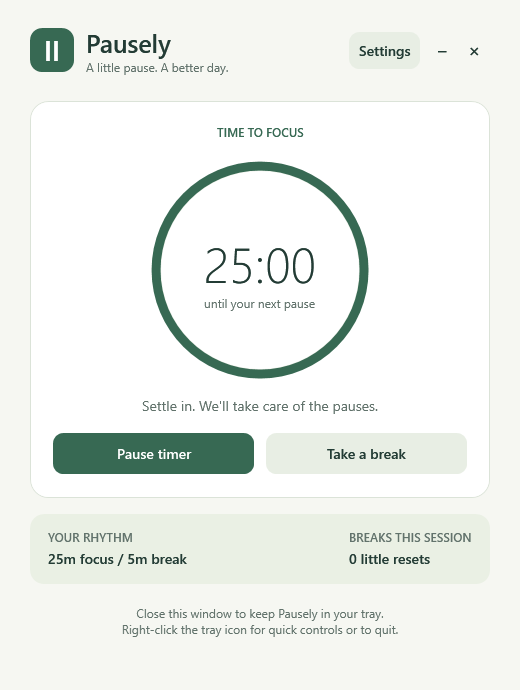
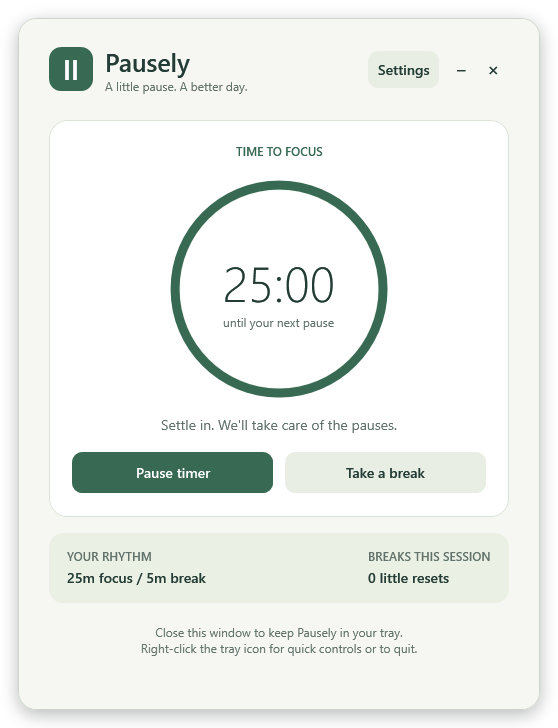
Refinements
- Soft shadows around the windows.
- Custom scrollbar in settings.
- Save Settings enables only when preferences differ from saved values.
- Reset to Defaults asks “Are you sure?” before changing the form.
- Workflow upgraded to Node.js 24 actions

diff --git a/src/Pausely/App.xaml b/src/Pausely/App.xaml
@@ -15,9 +15,35 @@
     </Style>
     <Style x:Key="FramelessWindow" TargetType="Window" BasedOn="{StaticResource {x:Type Window}}">
       <Setter Property="WindowStyle" Value="None" />
+      <Setter Property="AllowsTransparency" Value="True" />
+      <Setter Property="Background" Value="Transparent" />
+      <Setter Property="Template">
+        <Setter.Value>
+          <ControlTemplate TargetType="Window">
+            <Grid>
+            <Grid x:Name="WindowSurface" Margin="18">
+              <!-- Shadow only the backdrop, so text stays crisp and timer updates stay cheap. -->
+              <Border x:Name="Shadow" Background="{StaticResource Canvas}" CornerRadius="18" IsHitTestVisible="False">
+                <Border.Effect><DropShadowEffect Color="#233C35" BlurRadius="26" ShadowDepth="5" Direction="270" Opacity="0.28" /></Border.Effect>
+              </Border>
+              <Border x:Name="Surface" Background="{StaticResource Canvas}" BorderBrush="#CBD6CA" BorderThickness="1" CornerRadius="18">
+                <AdornerDecorator><ContentPresenter /></AdornerDecorator>
+              </Border>
+            </Grid>
+            </Grid>
+            <ControlTemplate.Triggers>
+              <Trigger Property="WindowState" Value="Maximized">
+                <Setter TargetName="WindowSurface" Property="Margin" Value="0" />
+                <Setter TargetName="Surface" Property="CornerRadius" Value="0" />
+                <Setter TargetName="Shadow" Property="Visibility" Value="Collapsed" />
+              </Trigger>
+            </ControlTemplate.Triggers>
+          </ControlTemplate>
+        </Setter.Value>
+      </Setter>
       <Setter Property="WindowChrome.WindowChrome">
         <Setter.Value>
-          <WindowChrome CaptionHeight="80" ResizeBorderThickness="6" GlassFrameThickness="0" CornerRadius="16" UseAeroCaptionButtons="False" NonClientFrameEdges="None" />
+          <WindowChrome CaptionHeight="98" ResizeBorderThickness="22" GlassFrameThickness="0" CornerRadius="0" UseAeroCaptionButtons="False" NonClientFrameEdges="None" />
         </Setter.Value>
       </Setter>
     </Style>
@@ -63,6 +89,37 @@
       <Setter Property="BorderThickness" Value="1" /><Setter Property="VerticalContentAlignment" Value="Center" />
     </Style>
     <Style TargetType="CheckBox"><Setter Property="Margin" Value="0,7" /><Setter Property="VerticalContentAlignment" Value="Center" /></Style>
+    <Style x:Key="SettingsScrollThumb" TargetType="Thumb">
+      <Setter Property="MinHeight" Value="32" />
+      <Setter Property="Template"><Setter.Value>
+        <ControlTemplate TargetType="Thumb">
+          <Border x:Name="Handle" Background="#A3B7A3" CornerRadius="4" Margin="3,0" />
+          <ControlTemplate.Triggers>
+            <Trigger Property="IsMouseOver" Value="True"><Setter TargetName="Handle" Property="Background" Value="#6F9177" /></Trigger>
+            <Trigger Property="IsDragging" Value="True"><Setter TargetName="Handle" Property="Background" Value="{StaticResource Accent}" /></Trigger>
+          </ControlTemplate.Triggers>
+        </ControlTemplate>
+      </Setter.Value></Setter>
+    </Style>
+    <Style x:Key="ScrollPageButton" TargetType="RepeatButton">
+      <Setter Property="Focusable" Value="False" />
+      <Setter Property="Template"><Setter.Value><ControlTemplate TargetType="RepeatButton"><Border Background="Transparent" /></ControlTemplate></Setter.Value></Setter>
+    </Style>
+    <Style x:Key="SettingsScrollBar" TargetType="ScrollBar">
+      <Setter Property="Width" Value="12" /><Setter Property="MinWidth" Value="12" />
+      <Setter Property="Background" Value="#E8EEE4" /><Setter Property="Stylus.IsFlicksEnabled" Value="False" />
+      <Setter Property="Template"><Setter.Value>
+        <ControlTemplate TargetType="ScrollBar">
+          <Border Background="{TemplateBinding Background}" CornerRadius="6">
+            <Track x:Name="PART_Track" Orientation="Vertical" IsDirectionReversed="True" Minimum="{TemplateBinding Minimum}" Maximum="{TemplateBinding Maximum}" Value="{TemplateBinding Value}" ViewportSize="{TemplateBinding ViewportSize}">
+              <Track.DecreaseRepeatButton><RepeatButton Command="ScrollBar.PageUpCommand" Style="{StaticResource ScrollPageButton}" /></Track.DecreaseRepeatButton>
+              <Track.Thumb><Thumb Style="{StaticResource SettingsScrollThumb}" /></Track.Thumb>
+              <Track.IncreaseRepeatButton><RepeatButton Command="ScrollBar.PageDownCommand" Style="{StaticResource ScrollPageButton}" /></Track.IncreaseRepeatButton>
+            </Track>
+          </Border>
+        </ControlTemplate>
+      </Setter.Value></Setter>
+    </Style>
     <Style x:Key="Card" TargetType="Border">
       <Setter Property="Background" Value="White" /><Setter Property="CornerRadius" Value="18" />
       <Setter Property="Padding" Value="22" /><Setter Property="BorderBrush" Value="{StaticResource Line}" /><Setter Property="BorderThickness" Value="1" />

diff --git a/src/Pausely/Views/SettingsWindow.xaml b/src/Pausely/Views/SettingsWindow.xaml
@@ -1,4 +1,4 @@
-<Window Style="{StaticResource FramelessWindow}" x:Class="Pausely.Views.SettingsWindow" xmlns="http://schemas.microsoft.com/winfx/2006/xaml/presentation" xmlns:x="http://schemas.microsoft.com/winfx/2006/xaml" Title="Pausely · Settings" Width="530" Height="780" MinWidth="460" MinHeight="520" WindowStartupLocation="CenterOwner">
+<Window Style="{StaticResource FramelessWindow}" x:Class="Pausely.Views.SettingsWindow" xmlns="http://schemas.microsoft.com/winfx/2006/xaml/presentation" xmlns:x="http://schemas.microsoft.com/winfx/2006/xaml" Title="Pausely · Settings" Width="568" Height="818" MinWidth="528" MinHeight="558" WindowStartupLocation="CenterOwner">
   <DockPanel Margin="28">
     <Grid DockPanel.Dock="Top" Margin="0,0,0,18">
       <Grid.ColumnDefinitions><ColumnDefinition/><ColumnDefinition Width="Auto"/></Grid.ColumnDefinitions>
@@ -7,10 +7,11 @@
     </Grid>
     <StackPanel DockPanel.Dock="Bottom" Margin="0,16,0,0">
       <TextBlock x:Name="ValidationText" Foreground="#A34332" Margin="0,0,0,10" AutomationProperties.LiveSetting="Polite" />
-      <Grid><Grid.ColumnDefinitions><ColumnDefinition/><ColumnDefinition Width="Auto"/><ColumnDefinition Width="12"/><ColumnDefinition Width="Auto"/></Grid.ColumnDefinitions><Button Content="Defaults" Click="Defaults_Click" HorizontalAlignment="Left"/><Button Grid.Column="1" Content="Cancel" IsCancel="True" Click="Cancel_Click"/><Button Grid.Column="3" Content="Save settings" IsDefault="True" Style="{StaticResource Primary}" Click="Save_Click"/></Grid>
+      <Grid><Grid.ColumnDefinitions><ColumnDefinition/><ColumnDefinition Width="Auto"/><ColumnDefinition Width="8"/><ColumnDefinition Width="Auto"/></Grid.ColumnDefinitions><Button x:Name="DefaultsButton" Content="Reset to Defaults" Click="Defaults_Click" Padding="12,11" HorizontalAlignment="Left"/><Button Grid.Column="1" Content="Cancel" IsCancel="True" Click="Cancel_Click" Padding="12,11"/><Button x:Name="SaveButton" Grid.Column="3" Content="Save Settings" IsEnabled="False" IsDefault="True" Style="{StaticResource Primary}" Click="Save_Click" Padding="12,11"/></Grid>
     </StackPanel>
-    <ScrollViewer VerticalScrollBarVisibility="Hidden" HorizontalScrollBarVisibility="Disabled" PanningMode="VerticalOnly">
-      <StackPanel>
+    <ScrollViewer x:Name="SettingsScroller" VerticalScrollBarVisibility="Auto" HorizontalScrollBarVisibility="Disabled" PanningMode="VerticalOnly">
+      <ScrollViewer.Resources><Style TargetType="ScrollBar" BasedOn="{StaticResource SettingsScrollBar}" /></ScrollViewer.Resources>
+      <StackPanel Margin="0,0,12,0">
         <Border Style="{StaticResource Card}"><StackPanel>
           <TextBlock Text="YOUR TIMING" Foreground="{StaticResource Accent}" FontSize="12" FontWeight="SemiBold" Margin="0,0,0,14"/>
           <Grid><Grid.ColumnDefinitions><ColumnDefinition/><ColumnDefinition Width="100"/></Grid.ColumnDefinitions><Grid.RowDefinitions><RowDefinition Height="Auto"/><RowDefinition Height="Auto"/><RowDefinition Height="Auto"/><RowDefinition Height="Auto"/></Grid.RowDefinitions>

diff --git a/src/Pausely/Views/ReminderWindow.xaml b/src/Pausely/Views/ReminderWindow.xaml
@@ -1,9 +1,12 @@
-<Window Style="{StaticResource {x:Type Window}}" x:Class="Pausely.Views.ReminderWindow" xmlns="http://schemas.microsoft.com/winfx/2006/xaml/presentation" xmlns:x="http://schemas.microsoft.com/winfx/2006/xaml" Title="Pausely · A little pause" Width="400" SizeToContent="Height" WindowStyle="None" ResizeMode="NoResize" AllowsTransparency="True" Background="Transparent" Topmost="True" ShowInTaskbar="False" ShowActivated="False">
-  <Border Background="{StaticResource Canvas}" BorderBrush="{StaticResource Line}" BorderThickness="1" CornerRadius="18" Padding="23" Margin="8">
+<Window Style="{StaticResource {x:Type Window}}" x:Class="Pausely.Views.ReminderWindow" xmlns="http://schemas.microsoft.com/winfx/2006/xaml/presentation" xmlns:x="http://schemas.microsoft.com/winfx/2006/xaml" Title="Pausely · A little pause" Width="420" SizeToContent="Height" WindowStyle="None" ResizeMode="NoResize" AllowsTransparency="True" Background="Transparent" Topmost="True" ShowInTaskbar="False" ShowActivated="False">
+  <Grid Margin="18">
+    <Border Background="{StaticResource Canvas}" CornerRadius="18" IsHitTestVisible="False"><Border.Effect><DropShadowEffect Color="#233C35" BlurRadius="26" ShadowDepth="5" Direction="270" Opacity="0.28" /></Border.Effect></Border>
+  <Border Background="{StaticResource Canvas}" BorderBrush="#CBD6CA" BorderThickness="1" CornerRadius="18" Padding="23">
     <StackPanel>
       <Grid><TextBlock Text="Ⅱ  PAUSELY" FontSize="12" Foreground="{StaticResource Accent}" FontWeight="Bold" VerticalAlignment="Center"/><Button Content="×" Click="Dismiss_Click" HorizontalAlignment="Right" Padding="8,2" AutomationProperties.Name="Dismiss reminder"/></Grid>
       <TextBlock x:Name="Message" FontSize="23" FontWeight="SemiBold" Margin="0,12,0,7"/>
       <TextBlock Text="Find a stopping point. Your screen will lock soon." Foreground="{StaticResource Muted}" FontSize="13"/>
     </StackPanel>
   </Border>
+  </Grid>
 </Window>

diff --git a/src/Pausely/Views/BreakWindow.xaml b/src/Pausely/Views/BreakWindow.xaml
@@ -1,5 +1,5 @@
-<Window Style="{StaticResource FramelessWindow}" x:Class="Pausely.Views.BreakWindow" xmlns="http://schemas.microsoft.com/winfx/2006/xaml/presentation" xmlns:x="http://schemas.microsoft.com/winfx/2006/xaml" Title="Pausely · Break not over yet" Width="460" SizeToContent="Height" ResizeMode="NoResize" WindowStartupLocation="CenterScreen" Topmost="True" ShowInTaskbar="True">
-  <WindowChrome.WindowChrome><WindowChrome CaptionHeight="96" ResizeBorderThickness="0" GlassFrameThickness="0" CornerRadius="16" UseAeroCaptionButtons="False" NonClientFrameEdges="None" /></WindowChrome.WindowChrome>
+<Window Style="{StaticResource FramelessWindow}" x:Class="Pausely.Views.BreakWindow" xmlns="http://schemas.microsoft.com/winfx/2006/xaml/presentation" xmlns:x="http://schemas.microsoft.com/winfx/2006/xaml" Title="Pausely · Break not over yet" Width="498" SizeToContent="Height" ResizeMode="NoResize" WindowStartupLocation="CenterScreen" Topmost="True" ShowInTaskbar="True">
+  <WindowChrome.WindowChrome><WindowChrome CaptionHeight="114" ResizeBorderThickness="0" GlassFrameThickness="0" CornerRadius="0" UseAeroCaptionButtons="False" NonClientFrameEdges="None" /></WindowChrome.WindowChrome>
   <StackPanel Margin="32">
     <Border Background="#E7EEDF" CornerRadius="28" Width="64" Height="64" HorizontalAlignment="Left"><TextBlock Text="Ⅱ" FontSize="34" Foreground="{StaticResource Accent}" HorizontalAlignment="Center" VerticalAlignment="Center"/></Border>
     <TextBlock x:Name="Message" Text="Break not over yet" FontSize="29" FontWeight="SemiBold" Margin="0,22,0,10"/>

diff --git a/src/Pausely/Views/MainWindow.xaml b/src/Pausely/Views/MainWindow.xaml
@@ -1,4 +1,4 @@
-<Window Style="{StaticResource FramelessWindow}" x:Class="Pausely.Views.MainWindow" xmlns="http://schemas.microsoft.com/winfx/2006/xaml/presentation" xmlns:x="http://schemas.microsoft.com/winfx/2006/xaml" Title="Pausely" Width="520" Height="690" MinWidth="460" MinHeight="590" WindowStartupLocation="CenterScreen">
+<Window Style="{StaticResource FramelessWindow}" x:Class="Pausely.Views.MainWindow" xmlns="http://schemas.microsoft.com/winfx/2006/xaml/presentation" xmlns:x="http://schemas.microsoft.com/winfx/2006/xaml" Title="Pausely" Width="558" Height="728" MinWidth="498" MinHeight="628" WindowStartupLocation="CenterScreen">
   <DockPanel Margin="30,26">
       <Grid DockPanel.Dock="Top" Margin="0,0,0,26">
         <Grid.ColumnDefinitions><ColumnDefinition/><ColumnDefinition Width="Auto"/></Grid.ColumnDefinitions>

diff --git a/src/Pausely/SmokeTest.cs b/src/Pausely/SmokeTest.cs
@@ -1,5 +1,7 @@
 using Pausely.Services;
 using Pausely.Views;
+using System.Globalization;
+using System.Windows.Controls;
 using System.Windows.Media;
 using System.Windows.Media.Imaging;
 
@@ -23,13 +25,15 @@ internal static class SmokeTest
             var away = WindowsSession.IsAway();
             using var controller = new AppController(new SettingsStore(Path.Combine(output, "unused")), preview: true);
             controller.Timer.Start();
-            Render(new MainWindow(controller), output, "dashboard", 520, 690);
-            Render(new SettingsWindow(controller), output, "settings", 530, 780);
-            Render(new ReminderWindow("Quick break in one minute", 6), output, "reminder", 400, 215);
+            CheckSettingsEditing(controller);
+            Render(new MainWindow(controller), output, "dashboard", 558, 728);
+            Render(new SettingsWindow(controller), output, "settings", 568, 818);
+            Render(new SettingsWindow(controller), output, "settings-small", 528, 558);
+            Render(new ReminderWindow("Quick break in one minute", 6), output, "reminder", 420, 235);
             controller.Timer.TakeBreak();
             controller.Timer.SetAway(true);
-            Render(new BreakWindow(controller), output, "break", 460, 510);
-            File.WriteAllText(Path.Combine(output, "result.txt"), $"PASS: four WPF views rendered; settings round trip and corrupt-file recovery passed; native session subscription succeeded (away={away}). No workstation lock or startup registration performed.");
+            Render(new BreakWindow(controller), output, "break", 498, 548);
+            File.WriteAllText(Path.Combine(output, "result.txt"), $"PASS: four WPF views rendered (including compact settings); settings edit/revert/save checks, round trip and corrupt-file recovery passed; native session subscription succeeded (away={away}). No workstation lock or startup registration performed.");
             app.Shutdown(0);
         }
         catch (Exception ex)
@@ -37,6 +41,40 @@ internal static class SmokeTest
             File.WriteAllText(Path.Combine(output, "result.txt"), ex.ToString());
             app.Shutdown(1);
         }
+    }
+    private static void CheckSettingsEditing(AppController controller)
+    {
+        var original = controller.Timer.Settings;
+        var window = new SettingsWindow(controller);
+        void Expect(bool enabled)
+        {
+            if (window.SaveButton.IsEnabled != enabled) throw new InvalidOperationException($"Expected Save Settings enabled={enabled}.");
+        }
+        Expect(false);
+        window.FocusInput.Text = (original.FocusMinutes + 1).ToString(CultureInfo.CurrentCulture);
+        Expect(true);
+        window.FocusInput.Text = original.FocusMinutes.ToString("0.0", CultureInfo.CurrentCulture);
+        Expect(false); // Equivalent numeric formatting is not a changed preference.
+        window.ReminderInput.Text += "!";
+        Expect(true);
+        window.ReminderInput.Text = original.ReminderMessage;
+        Expect(false);
+        window.FocusInput.Text = "";
+        window.SaveButton.RaiseEvent(new RoutedEventArgs(Button.ClickEvent));
+        if (controller.Timer.Settings != original || string.IsNullOrEmpty(window.ValidationText.Text))
+            throw new InvalidOperationException("Invalid edits must stay unsaved and show validation.");
+        window.FocusInput.Text = original.FocusMinutes.ToString(CultureInfo.CurrentCulture);
+        Expect(false);
+        window.SoundInput.IsChecked = !original.PlaySound;
+        Expect(true);
+        window.SoundInput.IsChecked = original.PlaySound;
+        Expect(false);
+        window.AutoStartInput.IsChecked = !original.AutoStartTimer;
+        Expect(true);
+        window.SaveButton.RaiseEvent(new RoutedEventArgs(Button.ClickEvent));
+        if (controller.Timer.Settings != original with { AutoStartTimer = !original.AutoStartTimer })
+            throw new InvalidOperationException("Save Settings did not apply the edited preference.");
+        controller.SaveSettings(original);
     }
     private static void Render(Window window, string output, string name, int width, int height)
     {
@@ -48,12 +86,20 @@ internal static class SmokeTest
         window.Height = height;
         window.Show();
         window.UpdateLayout();
-        var content = (FrameworkElement)window.Content;
-        var clientWidth = (int)Math.Ceiling(content.ActualWidth + content.Margin.Left + content.Margin.Right);
-        var clientHeight = (int)Math.Ceiling(content.ActualHeight + content.Margin.Top + content.Margin.Bottom);
+        var clientWidth = (int)Math.Ceiling(window.ActualWidth);
+        var clientHeight = (int)Math.Ceiling(window.ActualHeight);
         var bitmap = new RenderTargetBitmap(clientWidth, clientHeight, 96, 96, PixelFormats.Pbgra32);
         bitmap.Render(window);
-        var encoder = new PngBitmapEncoder(); encoder.Frames.Add(BitmapFrame.Create(bitmap));
+        // A white backdrop makes the transparent window shadow visible in review images.
+        var preview = new DrawingVisual();
+        using (var drawing = preview.RenderOpen())
+        {
+            drawing.DrawRectangle(Brushes.White, null, new Rect(0, 0, clientWidth, clientHeight));
+            drawing.DrawImage(bitmap, new Rect(0, 0, clientWidth, clientHeight));
+        }
+        var flattened = new RenderTargetBitmap(clientWidth, clientHeight, 96, 96, PixelFormats.Pbgra32);
+        flattened.Render(preview);
+        var encoder = new PngBitmapEncoder(); encoder.Frames.Add(BitmapFrame.Create(flattened));
         using var file = File.Create(Path.Combine(output, name + ".png")); encoder.Save(file);
         window.Hide();
     }

diff --git a/src/Pausely/Views/SettingsWindow.xaml.cs b/src/Pausely/Views/SettingsWindow.xaml.cs
@@ -1,15 +1,23 @@
 using System.Globalization;
+using System.Windows.Controls;
+using System.Windows.Controls.Primitives;
 
 namespace Pausely.Views;
 
 public partial class SettingsWindow : Window
 {
     private readonly AppController _controller;
+    private readonly AppSettings _savedSettings;
     public SettingsWindow(AppController controller)
     {
         InitializeComponent();
         _controller = controller;
-        Populate(controller.Timer.Settings);
+        _savedSettings = controller.Timer.Settings;
+        Populate(_savedSettings);
+        AddHandler(TextBox.TextChangedEvent, new TextChangedEventHandler((_, _) => UpdateSaveState()));
+        AddHandler(ToggleButton.CheckedEvent, new RoutedEventHandler((_, _) => UpdateSaveState()));
+        AddHandler(ToggleButton.UncheckedEvent, new RoutedEventHandler((_, _) => UpdateSaveState()));
+        UpdateSaveState();
     }
     private void Populate(AppSettings s)
     {
@@ -23,30 +31,44 @@ public partial class SettingsWindow : Window
         StartupInput.IsChecked = s.StartWithWindows;
         SoundInput.IsChecked = s.PlaySound;
     }
-    private AppSettings? Read()
+    private void UpdateSaveState() => SaveButton.IsEnabled = Read(showValidation: false) != _savedSettings;
+
+    private AppSettings? Read(bool showValidation = true)
     {
         if (!double.TryParse(FocusInput.Text, NumberStyles.Float, CultureInfo.CurrentCulture, out var focus) ||
             !double.TryParse(BreakInput.Text, NumberStyles.Float, CultureInfo.CurrentCulture, out var rest) ||
             !double.TryParse(WarningInput.Text, NumberStyles.Float, CultureInfo.CurrentCulture, out var warning) ||
             !double.TryParse(DurationInput.Text, NumberStyles.Float, CultureInfo.CurrentCulture, out var duration))
-        { ValidationText.Text = "Please enter a number in each timing field."; return null; }
+        {
+            if (showValidation) ValidationText.Text = "Please enter a number in each timing field.";
+            return null;
+        }
         var value = new AppSettings
         {
             FocusMinutes = focus, BreakMinutes = rest, WarningSeconds = warning, NotificationSeconds = duration,
             ReminderMessage = ReminderInput.Text.Trim(), BreakMessage = BreakMessageInput.Text.Trim(),
             AutoStartTimer = AutoStartInput.IsChecked == true, StartWithWindows = StartupInput.IsChecked == true, PlaySound = SoundInput.IsChecked == true
         };
-        ValidationText.Text = value.Validate() ?? "";
+        if (showValidation) ValidationText.Text = value.Validate() ?? "";
         return value.Validate() is null ? value : null;
     }
     private void Save_Click(object sender, RoutedEventArgs e)
     {
+        if (!SaveButton.IsEnabled) return;
         if (Read() is not { } settings) return;
         try { _controller.SaveSettings(settings); Close(); }
         catch (Exception ex) when (ex is IOException or UnauthorizedAccessException or System.Security.SecurityException or InvalidOperationException)
         { ValidationText.Text = $"Couldn't save settings: {ex.Message}"; }
     }
     private void Preview_Click(object sender, RoutedEventArgs e) { if (Read() is { } settings) _controller.ShowReminder(settings, TimeSpan.FromSeconds(settings.WarningSeconds)); }
-    private void Defaults_Click(object sender, RoutedEventArgs e) { Populate(new AppSettings()); ValidationText.Text = "Defaults restored. Save to apply."; }
+    private void Defaults_Click(object sender, RoutedEventArgs e)
+    {
+        if (MessageBox.Show(this,
+            "Are you sure?\n\nThis replaces your current edits with Pausely's default settings. Nothing is saved until you choose Save Settings.",
+            "Reset to Defaults", MessageBoxButton.YesNo, MessageBoxImage.Question, MessageBoxResult.No) != MessageBoxResult.Yes) return;
+        Populate(new AppSettings());
+        UpdateSaveState();
+        ValidationText.Text = SaveButton.IsEnabled ? "Defaults restored. Save Settings to apply." : "Default settings are already saved.";
+    }
     private void Cancel_Click(object sender, RoutedEventArgs e) => Close();
 }
